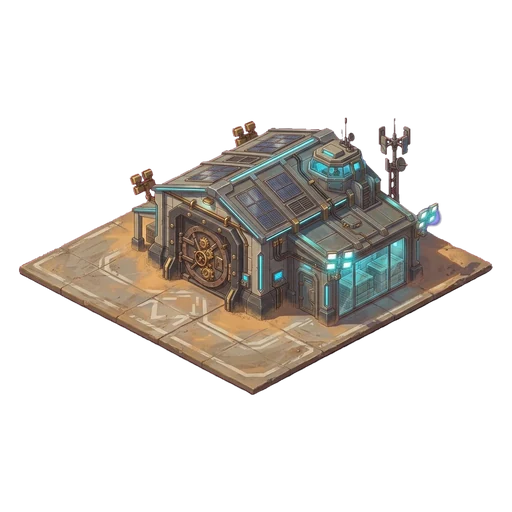
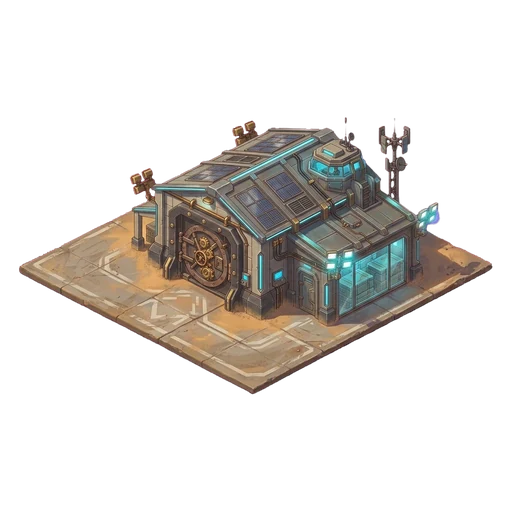
Painted art: Tech Institute tier 5; slightly tighter magenta key
Claude-Session: https://claude.ai/code/session_01RrDtyUZUzqu6rAp9dA6JB4

diff --git a/tools/ingest.py b/tools/ingest.py
@@ -70,10 +70,10 @@ def magenta_key(im, mask):
     between lamps), fades the purple shadow edge, and removes the magenta cast from edge pixels."""
     rgb = im.convert('RGB'); r, g, b = rgb.split()
     m = ImageChops.subtract(ImageChops.darker(r, b), g)                       # how magenta a pixel is
-    a = m.point(lambda v: 255 if v <= 45 else 0 if v >= 100 else int(255 * (100 - v) / 55))
+    a = m.point(lambda v: 255 if v <= 28 else 0 if v >= 64 else int(255 * (64 - v) / 36))
     a = ImageChops.darker(a, mask.filter(ImageFilter.MinFilter(3)))
-    edge = a.point(lambda v: 255 if v < 250 else 0).filter(ImageFilter.MaxFilter(5))   # pixels near the cut
-    m2 = ImageChops.multiply(m.point(lambda v: v if v > 12 else 0), edge.point(lambda v: 255 if v else 0))
+    edge = a.point(lambda v: 255 if v < 250 else 0).filter(ImageFilter.MaxFilter(9))   # pixels near the cut
+    m2 = ImageChops.multiply(m.point(lambda v: v if v > 8 else 0), edge.point(lambda v: 255 if v else 0))
     r = ImageChops.subtract(r, m2); b = ImageChops.subtract(b, m2)
     out = Image.merge('RGB', (r, g, b)).convert('RGBA'); out.putalpha(a.filter(ImageFilter.GaussianBlur(0.6))); return out
 
